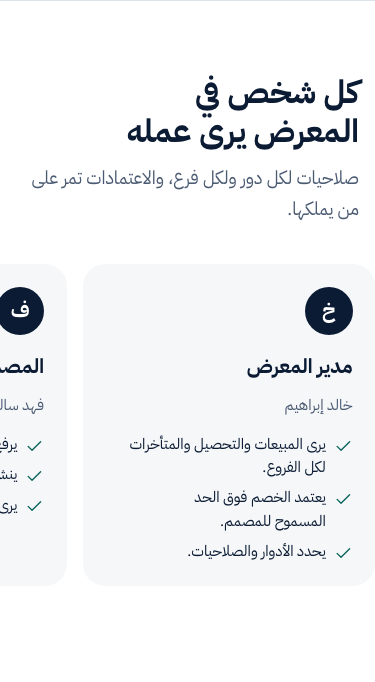
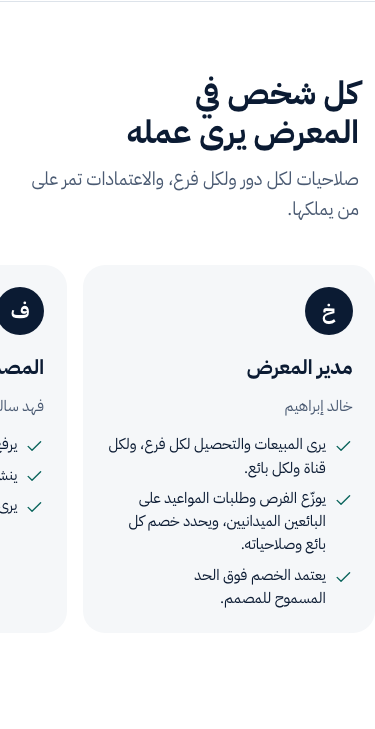
fix(marketing): kitchens page claims field sales now on main
Field sales (ADR-0041, PR 31) is on main; the first research read an older
src/. The kitchens page now says it: the channel is «البيع الميداني في بيت
العميل» (supervisor dispatch, the rep records measurements and site photos
on the phone, sends the quote and the signing link, the order is
attributed to the field channel and the rep's commission), the channels
lede mentions a report per channel and per rep, a «البائع الميداني» role
card is added and the showroom manager's card gains dispatch and per-rep
discount and permissions, and a FAQ answers the home-measurement visit.
RESEARCH.md maps each new claim to origin/main. Warranty management and
inbound WhatsApp capture stay unclaimed.

diff --git a/marketing/site-next/solutions/kitchens/index.html b/marketing/site-next/solutions/kitchens/index.html
@@ -33,7 +33,7 @@
 <link rel="stylesheet" href="../../styles.css">
 <link rel="stylesheet" href="../sector.css">
 <script>document.documentElement.classList.add('js');window.OPSONE_PAGE={sector:"kitchens"};</script>
-<script type="application/ld+json">{"@context":"https://schema.org","@graph":[{"@type":"SoftwareApplication","name":"OpsOne","applicationCategory":"BusinessApplication","operatingSystem":"Web","inLanguage":"ar","url":"https://www.opsone.example/solutions/kitchens/","description":"OpsOne لمعارض المطابخ: زيارة القياس، والتصميم بنسخه يعتمده العميل، وعرض السعر والعقد الموقّع إلكترونيًا، والعربون والدفعات، وأمر التصنيع، ثم التركيب والتسليم بصور وتوقيع العميل.","audience":{"@type":"BusinessAudience","audienceType":"معارض المطابخ ومصانعها في السعودية"}},{"@type":"BreadcrumbList","itemListElement":[{"@type":"ListItem","position":1,"name":"OpsOne","item":"https://www.opsone.example/"},{"@type":"ListItem","position":2,"name":"حلول حسب نشاطك","item":"https://www.opsone.example/#solutions"},{"@type":"ListItem","position":3,"name":"معارض المطابخ","item":"https://www.opsone.example/solutions/kitchens/"}]},{"@type":"FAQPage","mainEntity":[{"@type":"Question","name":"معرضي يصنّع لدى مصنع خارجي، هل يناسبني OpsOne؟","acceptedAnswer":{"@type":"Answer","text":"نعم. مسار المطابخ الجاهز يرسل أمر شراء للمصنع بموعد متوقع، ويرسل الأسطح لمورّد الرخام اختياريًا، ثم يستلمها مع فحص الجودة. وتعرض لوحة المصانع ما تأخر."}},{"@type":"Question","name":"ولو كان عندي مصنعي الخاص؟","acceptedAnswer":{"@type":"Answer","text":"تضيف إلى المسار مراحل التصنيع الداخلي: الخامات، والقص والتصنيع، والتجميع، وفحص الجودة بصورة إلزامية، ولكل مرحلة مسؤول ومدة."}},{"@type":"Question","name":"هل أسجّل مقاسات المطبخ في النظام؟","acceptedAnswer":{"@type":"Answer","text":"نعم. يسجّل فني القياس كل مقاس بموقعه وقيمته ووحدته، بالمتر أو السنتيمتر أو المليمتر، ويحدد إن كان تقديريًا أو نهائيًا، ويُحفظ من قاسه ومتى."}},{"@type":"Question","name":"هل يعتمد العميل التصميم من جواله؟","acceptedAnswer":{"@type":"Answer","text":"نعم. يصله التصميم في صفحته فيعتمده أو يطلب تعديله مع ملاحظة، وكل تعديل يصبح نسخة جديدة، وتبقى النسخ السابقة محفوظة."}},{"@type":"Question","name":"كيف أقسّم دفعات المطبخ؟","acceptedAnswer":{"@type":"Answer","text":"تختار خطة جاهزة مثل 40/40/20 أو 50/50، أو تكتب خطتك حتى 12 دفعة، مربوطة بالعقد أو اعتماد التصميم أو بدء مرحلة أو اكتمال التسليم. ويصل العميل تذكير قبل كل دفعة."}},{"@type":"Question","name":"هل يصل العميل تذكير قبل موعد التركيب؟","acceptedAnswer":{"@type":"Answer","text":"نعم. يصله تذكير بواتساب أو رسالة نصية قبل موعد القياس والتركيب المؤكَّد، وتحدد أنت كم ساعة قبله."}},{"@type":"Question","name":"هل أبيع الإكسسوارات والأجهزة أونلاين؟","acceptedAnswer":{"@type":"Answer","text":"نعم. المتجر الإلكتروني يبيع المنتجات الجاهزة من المخزون نفسه بدفع إلكتروني، ومعه كوبونات وروابط سلة ترسلها لعميلك."}}]}]}</script>
+<script type="application/ld+json">{"@context":"https://schema.org","@graph":[{"@type":"SoftwareApplication","name":"OpsOne","applicationCategory":"BusinessApplication","operatingSystem":"Web","inLanguage":"ar","url":"https://www.opsone.example/solutions/kitchens/","description":"OpsOne لمعارض المطابخ: زيارة القياس، والتصميم بنسخه يعتمده العميل، وعرض السعر والعقد الموقّع إلكترونيًا، والعربون والدفعات، وأمر التصنيع، ثم التركيب والتسليم بصور وتوقيع العميل.","audience":{"@type":"BusinessAudience","audienceType":"معارض المطابخ ومصانعها في السعودية"}},{"@type":"BreadcrumbList","itemListElement":[{"@type":"ListItem","position":1,"name":"OpsOne","item":"https://www.opsone.example/"},{"@type":"ListItem","position":2,"name":"حلول حسب نشاطك","item":"https://www.opsone.example/#solutions"},{"@type":"ListItem","position":3,"name":"معارض المطابخ","item":"https://www.opsone.example/solutions/kitchens/"}]},{"@type":"FAQPage","mainEntity":[{"@type":"Question","name":"معرضي يصنّع لدى مصنع خارجي، هل يناسبني OpsOne؟","acceptedAnswer":{"@type":"Answer","text":"نعم. مسار المطابخ الجاهز يرسل أمر شراء للمصنع بموعد متوقع، ويرسل الأسطح لمورّد الرخام اختياريًا، ثم يستلمها مع فحص الجودة. وتعرض لوحة المصانع ما تأخر."}},{"@type":"Question","name":"ولو كان عندي مصنعي الخاص؟","acceptedAnswer":{"@type":"Answer","text":"تضيف إلى المسار مراحل التصنيع الداخلي: الخامات، والقص والتصنيع، والتجميع، وفحص الجودة بصورة إلزامية، ولكل مرحلة مسؤول ومدة."}},{"@type":"Question","name":"هل أسجّل مقاسات المطبخ في النظام؟","acceptedAnswer":{"@type":"Answer","text":"نعم. يسجّل فني القياس كل مقاس بموقعه وقيمته ووحدته، بالمتر أو السنتيمتر أو المليمتر، ويحدد إن كان تقديريًا أو نهائيًا، ويُحفظ من قاسه ومتى."}},{"@type":"Question","name":"هل يقيس البائع الميداني في بيت العميل ويرسل العرض من جواله؟","acceptedAnswer":{"@type":"Answer","text":"نعم. يوزّع المشرف الفرصة على بائع ميداني، فيرى البائع فرصه ومواعيده على جواله، ويسجّل المقاسات وصور الموقع أثناء الزيارة، ثم يجهّز عرض السعر ويرسله مع رابط توقيع العقد. ويُنسب الطلب إليه وإلى قناة البيع الميداني في التقارير."}},{"@type":"Question","name":"هل يعتمد العميل التصميم من جواله؟","acceptedAnswer":{"@type":"Answer","text":"نعم. يصله التصميم في صفحته فيعتمده أو يطلب تعديله مع ملاحظة، وكل تعديل يصبح نسخة جديدة، وتبقى النسخ السابقة محفوظة."}},{"@type":"Question","name":"كيف أقسّم دفعات المطبخ؟","acceptedAnswer":{"@type":"Answer","text":"تختار خطة جاهزة مثل 40/40/20 أو 50/50، أو تكتب خطتك حتى 12 دفعة، مربوطة بالعقد أو اعتماد التصميم أو بدء مرحلة أو اكتمال التسليم. ويصل العميل تذكير قبل كل دفعة."}},{"@type":"Question","name":"هل يصل العميل تذكير قبل موعد التركيب؟","acceptedAnswer":{"@type":"Answer","text":"نعم. يصله تذكير بواتساب أو رسالة نصية قبل موعد القياس والتركيب المؤكَّد، وتحدد أنت كم ساعة قبله."}},{"@type":"Question","name":"هل أبيع الإكسسوارات والأجهزة أونلاين؟","acceptedAnswer":{"@type":"Answer","text":"نعم. المتجر الإلكتروني يبيع المنتجات الجاهزة من المخزون نفسه بدفع إلكتروني، ومعه كوبونات وروابط سلة ترسلها لعميلك."}}]}]}</script>
 </head>
 <body>
 <!-- Icons: Lucide 0.475 (ISC licence, assets/vendor/LUCIDE-LICENSE.txt). -->
@@ -130,11 +130,11 @@
 </section>
 <section class="band kchan" id="channels" aria-labelledby="channels-title">
   <div class="wrap">
-    <div class="sec-head"><h2 class="head" id="channels-title">ثلاث قنوات لبيع المطابخ، ونظام واحد</h2><p class="lead">المعرض، ومتجر للإكسسوارات والأجهزة الجاهزة، والقياس في بيت العميل. كلها تصل إلى طلب واحد.</p></div>
+    <div class="sec-head"><h2 class="head" id="channels-title">ثلاث قنوات لبيع المطابخ، ونظام واحد</h2><p class="lead">المعرض، ومتجر للإكسسوارات والأجهزة الجاهزة، والبيع الميداني في بيت العميل. كلها تصل إلى طلب واحد، وتقرير لكل قناة ولكل بائع.</p></div>
     <ul class="panes">
       <li class="pane is-open"><button class="pane__btn" type="button" aria-expanded="true" aria-controls="pane-showroom"><img src="img/kitchen-display-1000.jpg" width="1000" height="750" alt="خزائن مطبخ معروضة في معرض بواجهات زجاجية وحوض" loading="lazy" decoding="async"><span class="pane__label"><svg class="ic" aria-hidden="true"><use href="#i-store"/></svg><b>المعرض</b></span></button><div class="pane__body" id="pane-showroom"><p>زائر المعرض يُسجَّل اهتمامًا، ويُحجز له موعد قياس، ثم يتحول إلى طلب مطبخ بضغطة، ومعه ما طلبه ومن يتابعه.</p></div></li>
       <li class="pane"><button class="pane__btn" type="button" aria-expanded="false" aria-controls="pane-store"><img src="img/kitchen-hardware-1000.jpg" width="1000" height="750" alt="لوحة عرض لمقابض خزائن المطبخ" loading="lazy" decoding="async"><span class="pane__label"><svg class="ic" aria-hidden="true"><use href="#i-shopping-bag"/></svg><b>متجر الإكسسوارات والأجهزة</b></span></button><div class="pane__body" id="pane-store"><p>المقابض والإكسسوارات والأجهزة الجاهزة تُباع من المخزون نفسه بدفع إلكتروني، وترسل لعميلك رابط سلة جاهزة.</p></div></li>
-      <li class="pane"><button class="pane__btn" type="button" aria-expanded="false" aria-controls="pane-home"><img src="img/kitchen-measure-1000.jpg" width="1000" height="639" alt="شريط قياس معدني مفتوح" loading="lazy" decoding="async"><span class="pane__label"><svg class="ic" aria-hidden="true"><use href="#i-map-pin"/></svg><b>القياس في بيت العميل</b></span></button><div class="pane__body" id="pane-home"><p>تُسند فرصة البيع لموظف، فيزور العميل في بيته للقياس، ويرسل عرض السعر، ويوقّع العميل العقد من جواله برمز تحقق. وتُحسب عمولة الموظف على ما حُصِّل.</p></div></li>
+      <li class="pane"><button class="pane__btn" type="button" aria-expanded="false" aria-controls="pane-home"><img src="img/kitchen-measure-1000.jpg" width="1000" height="639" alt="شريط قياس معدني مفتوح" loading="lazy" decoding="async"><span class="pane__label"><svg class="ic" aria-hidden="true"><use href="#i-map-pin"/></svg><b>البيع الميداني في بيت العميل</b></span></button><div class="pane__body" id="pane-home"><p>يوزّع المشرف فرصة البيع أو طلب الموعد على بائع ميداني، فيزور العميل في بيته، ويسجّل المقاسات وصور الموقع من جواله، ثم يرسل عرض السعر ورابط توقيع العقد. ويُحسب الطلب على قناة البيع الميداني، وعمولته للبائع.</p></div></li>
     </ul>
   </div>
 </section>
@@ -167,8 +167,9 @@
   </div>
   <div class="reel" tabindex="0" aria-label="كل شخص في المعرض يرى عمله">
     <ul class="reel__track">
-      <li class="role"><span class="role__av" aria-hidden="true">خ</span><h3>مدير المعرض</h3><p class="role__who">خالد إبراهيم</p><ul><li><svg class="ic" aria-hidden="true"><use href="#i-check"/></svg>يرى المبيعات والتحصيل والمتأخرات لكل الفروع.</li><li><svg class="ic" aria-hidden="true"><use href="#i-check"/></svg>يعتمد الخصم فوق الحد المسموح للمصمم.</li><li><svg class="ic" aria-hidden="true"><use href="#i-check"/></svg>يحدد الأدوار والصلاحيات.</li></ul></li>
+      <li class="role"><span class="role__av" aria-hidden="true">خ</span><h3>مدير المعرض</h3><p class="role__who">خالد إبراهيم</p><ul><li><svg class="ic" aria-hidden="true"><use href="#i-check"/></svg>يرى المبيعات والتحصيل لكل فرع، ولكل قناة ولكل بائع.</li><li><svg class="ic" aria-hidden="true"><use href="#i-check"/></svg>يوزّع الفرص وطلبات المواعيد على البائعين الميدانيين، ويحدد خصم كل بائع وصلاحياته.</li><li><svg class="ic" aria-hidden="true"><use href="#i-check"/></svg>يعتمد الخصم فوق الحد المسموح للمصمم.</li></ul></li>
       <li class="role"><span class="role__av" aria-hidden="true">ف</span><h3>المصمم ومسؤول المبيعات</h3><p class="role__who">فهد سالم</p><ul><li><svg class="ic" aria-hidden="true"><use href="#i-check"/></svg>يرفع نسخ التصميم ويرسلها للعميل.</li><li><svg class="ic" aria-hidden="true"><use href="#i-check"/></svg>ينشئ عرض السعر والعقد.</li><li><svg class="ic" aria-hidden="true"><use href="#i-check"/></svg>يرى طلباته وعملاءه في فرعه.</li></ul></li>
+      <li class="role"><span class="role__av" aria-hidden="true">س</span><h3>البائع الميداني</h3><p class="role__who">سالم يوسف</p><ul><li><svg class="ic" aria-hidden="true"><use href="#i-check"/></svg>يرى الفرص والمواعيد المسندة إليه فقط، على جواله.</li><li><svg class="ic" aria-hidden="true"><use href="#i-check"/></svg>يسجّل المقاسات وصور الموقع أثناء الزيارة.</li><li><svg class="ic" aria-hidden="true"><use href="#i-check"/></svg>يرسل عرض السعر ورابط توقيع العقد من الزيارة نفسها.</li></ul></li>
       <li class="role"><span class="role__av" aria-hidden="true">ح</span><h3>فني القياس</h3><p class="role__who">حسن علي</p><ul><li><svg class="ic" aria-hidden="true"><use href="#i-check"/></svg>يرى مواعيد القياس على جواله.</li><li><svg class="ic" aria-hidden="true"><use href="#i-check"/></svg>يسجّل المقاسات دون الدخول إلى ملف الطلب كاملًا.</li></ul></li>
       <li class="role"><span class="role__av" aria-hidden="true">ص</span><h3>المصنع والمشتريات</h3><p class="role__who">صالح يوسف</p><ul><li><svg class="ic" aria-hidden="true"><use href="#i-check"/></svg>يرسل أمر الشراء للمصنع ومورّد الأسطح.</li><li><svg class="ic" aria-hidden="true"><use href="#i-check"/></svg>يستلم الكميات ويسجّل المرفوض وسببه.</li></ul></li>
       <li class="role"><span class="role__av" aria-hidden="true">ز</span><h3>فريق التركيب</h3><p class="role__who">زياد سالم</p><ul><li><svg class="ic" aria-hidden="true"><use href="#i-check"/></svg>يبدأ زيارة التركيب ويرفع الصور قبل وبعد.</li><li><svg class="ic" aria-hidden="true"><use href="#i-check"/></svg>يسجّل الملاحظات ويأخذ توقيع العميل.</li><li><svg class="ic" aria-hidden="true"><use href="#i-check"/></svg>لا يرى المبالغ.</li></ul></li>
@@ -182,6 +183,7 @@
       <details class="qa__item" open><summary>معرضي يصنّع لدى مصنع خارجي، هل يناسبني OpsOne؟</summary><p>نعم. مسار المطابخ الجاهز يرسل أمر شراء للمصنع بموعد متوقع، ويرسل الأسطح لمورّد الرخام اختياريًا، ثم يستلمها مع فحص الجودة. وتعرض لوحة المصانع ما تأخر.</p></details>
       <details class="qa__item"><summary>ولو كان عندي مصنعي الخاص؟</summary><p>تضيف إلى المسار مراحل التصنيع الداخلي: الخامات، والقص والتصنيع، والتجميع، وفحص الجودة بصورة إلزامية، ولكل مرحلة مسؤول ومدة.</p></details>
       <details class="qa__item"><summary>هل أسجّل مقاسات المطبخ في النظام؟</summary><p>نعم. يسجّل فني القياس كل مقاس بموقعه وقيمته ووحدته، بالمتر أو السنتيمتر أو المليمتر، ويحدد إن كان تقديريًا أو نهائيًا، ويُحفظ من قاسه ومتى.</p></details>
+      <details class="qa__item"><summary>هل يقيس البائع الميداني في بيت العميل ويرسل العرض من جواله؟</summary><p>نعم. يوزّع المشرف الفرصة على بائع ميداني، فيرى البائع فرصه ومواعيده على جواله، ويسجّل المقاسات وصور الموقع أثناء الزيارة، ثم يجهّز عرض السعر ويرسله مع رابط توقيع العقد. ويُنسب الطلب إليه وإلى قناة البيع الميداني في التقارير.</p></details>
       <details class="qa__item"><summary>هل يعتمد العميل التصميم من جواله؟</summary><p>نعم. يصله التصميم في صفحته فيعتمده أو يطلب تعديله مع ملاحظة، وكل تعديل يصبح نسخة جديدة، وتبقى النسخ السابقة محفوظة.</p></details>
       <details class="qa__item"><summary>كيف أقسّم دفعات المطبخ؟</summary><p>تختار خطة جاهزة مثل 40/40/20 أو 50/50، أو تكتب خطتك حتى 12 دفعة، مربوطة بالعقد أو اعتماد التصميم أو بدء مرحلة أو اكتمال التسليم. ويصل العميل تذكير قبل كل دفعة.</p></details>
       <details class="qa__item"><summary>هل يصل العميل تذكير قبل موعد التركيب؟</summary><p>نعم. يصله تذكير بواتساب أو رسالة نصية قبل موعد القياس والتركيب المؤكَّد، وتحدد أنت كم ساعة قبله.</p></details>

diff --git a/marketing/site-next/solutions/sector.css b/marketing/site-next/solutions/sector.css
@@ -183,6 +183,6 @@
 /* roles: a grid where the screen is wide enough, a swipeable reel below that */
 @media (min-width: 1100px) {
   .reel { overflow: visible; }
-  .reel__track { display: grid; grid-template-columns: repeat(5, minmax(0, 1fr)); width: auto; max-width: 85rem; margin-inline: auto; padding: 0.5rem var(--margin) 0; }
+  .reel__track { display: grid; grid-template-columns: repeat(3, minmax(0, 1fr)); width: auto; max-width: 85rem; margin-inline: auto; padding: 0.5rem var(--margin) 0; }
   .role { width: auto; }
 }

diff --git a/marketing/site-next/solutions/kitchens/RESEARCH.md b/marketing/site-next/solutions/kitchens/RESEARCH.md
@@ -1,6 +1,7 @@
 # بحث صفحة معارض المطابخ (OpsOne)
 
-تاريخ البحث: 2026-11-04. مصدران: بحث ويب بروابط، وقراءة لقدرات OpsOne من الفرع `main` في `src/` (لا من فرع العمل).
+تاريخ البحث: 2026-11-04. مصدران: بحث ويب بروابط، وقراءة لقدرات OpsOne من `origin/main` في `src/`.
+**تصحيح (2026-11-04):** القراءة الأولى كانت من نسخة أقدم من `main`؛ البيع الميداني (ADR-0041، PR 31) صار في `main`، فحُدّثت الصفحة والجدول أدناه.
 **حدود البحث:** محرك البحث المتاح أمريكي، فالتغطية السعودية محدودة. أغلب المصادر صفحات شركات تصف ما تدّعيه، لا ممارسة مقيسة.
 منشورات X والمنتديات لم تُفتح (402/403)، فما ورد منها مأخوذ من عناوينها في نتائج البحث. ما لم يُتحقق منه موسوم «غير مؤكد».
 
@@ -80,11 +81,15 @@ Odoo مخصص، Cyncly Winner Bizz: https://cyncly.com/en-GB/products/winner-biz
 | الاستلام مع المرفوض وسببه | `purchases/receive.tsx` |
 | صور قبل وبعد، ملاحظات تمنع إغلاق الطلب، توقيع العميل على الاستلام | `Installation/FieldVisits.php`، `field/{install,visit}.tsx` |
 | المتجر يبيع الجاهز من المخزون نفسه بدفع إلكتروني، وكوبونات وروابط سلة | `app/Store/*` |
-| إسناد الفرصة لموظف، زيارة في بيت العميل، وعمولة على ما حُصِّل | مسؤول الاهتمام، نوع الموعد `visit`/`measurement`، `Models/Commissions/*` |
+| المشرف يوزّع الفرصة أو طلب الموعد على بائع ميداني | ADR-0041، `FieldSales/FieldDispatch.php` (P-105)، لوحة `/field-sales` |
+| البائع يرى فرصه ومواعيده فقط على جواله، ويسجّل المقاسات وصور الموقع أثناء الزيارة | قالب الدور `field_sales` بنطاق `assigned`، `FieldSales/SalesVisits.php`، `SalesVisitController`، `RecordMeasurement` |
+| يرسل عرض السعر ورابط توقيع العقد من الزيارة | مسودة العرض وإرساله (M-08-T00/T01) ورابط التوقيع (ADR-0029) بصلاحيات البائع نفسه |
+| الطلب يُنسب لقناة البيع الميداني وللبائع، وعمولته له | `orders.sales_channel` و`orders.seller_id` (`Enums/SalesChannel.php`)، `SaleOwnership` يثبّت البائع للعمولة |
+| تقرير لكل قناة ولكل بائع | تقريرا `channels` و`field_sales` (ADR-0041 §5) |
+| المدير يحدد خصم كل بائع وصلاحياته | `FieldSales/FieldRepAccess.php` (ستة مفاتيح وحد الخصم داخل سقف المالك) |
 | الإعداد يُعدَّل دون برمجة ويُجرَّب في مسودة، والطلبات الجارية على إصدارها | `ConfigRelease`، `FlowVersion`، `rules/release.tsx` |
 
-**ما تركته الصفحة عمدًا لأنه ليس في `main`:**
-- **تطبيق البيع الميداني** (تكليف المشرف، زيارات البائع بالصور، دخل كل قناة): موجود فقط في الفرع `claude/field-sales-2a39b3` غير المدموج. الصفحة تقول «القياس في بيت العميل» بإسناد الفرصة ونوع الموعد والعمولة فقط، ولا تذكر «دخل كل قناة».
+**ما تركته الصفحة عمدًا لأنه ليس في `main`:** (البيع الميداني كان هنا في القراءة الأولى، وهو الآن في `main` ومذكور في الجدول أعلاه)
 - **إدارة الضمان:** لا نموذج ضمان في الكود، فلا تذكره الصفحة.
 - **التقاط الرسائل الواردة من واتساب:** غير موجود (واتساب قناة تُدخل يدويًا)، فلا تقول الصفحة إن الاستفسارات تصل من واتساب تلقائيًا.
 - **حقول قياس خاصة بالمطابخ:** غير موجودة؛ القياس حر (موقع، اسم، قيمة، وحدة)، والصفحة تصفه كذلك.
